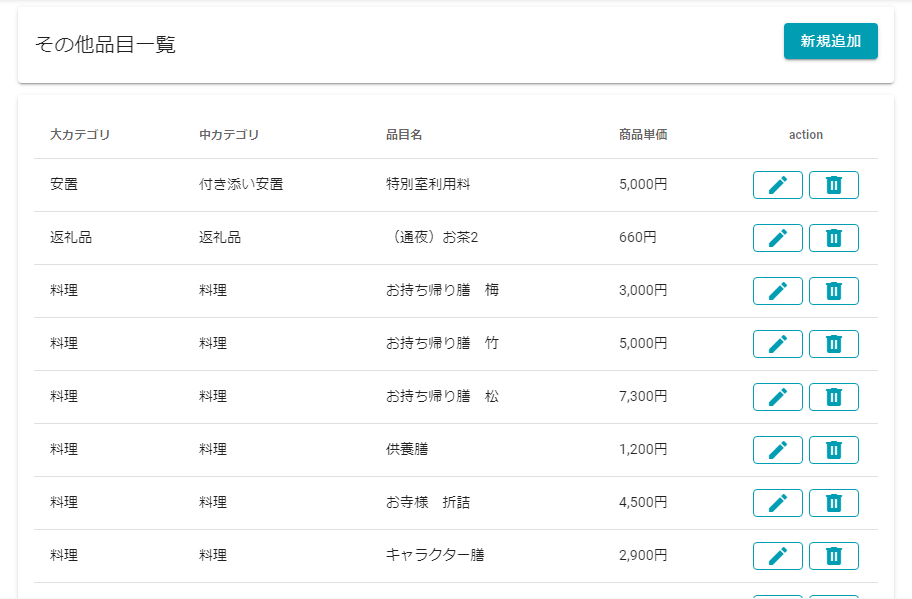
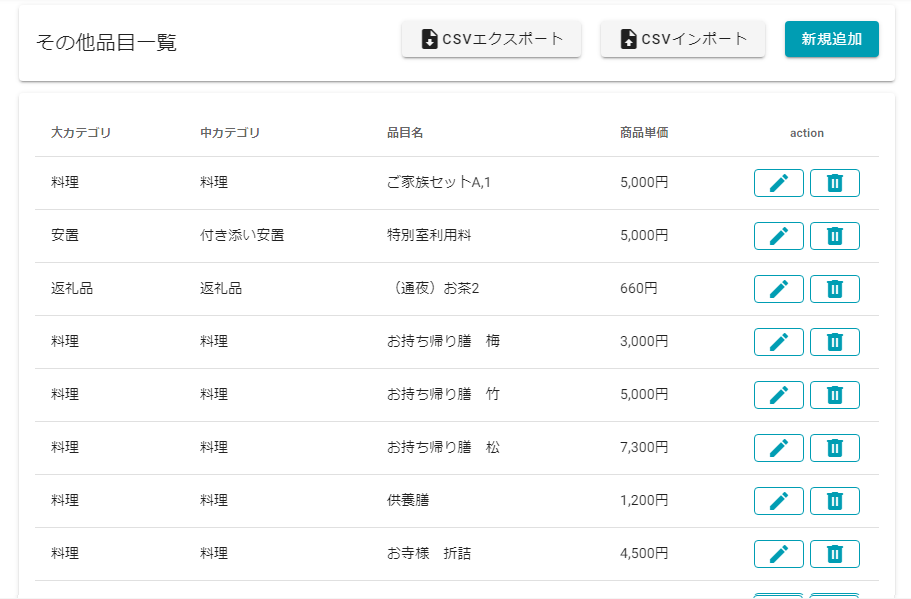
その他品目メンテナンス画面のCSVインポート・エクスポート機能についての記述を追加

Changed region(s): [[0.0615, 0.2104, 0.9528, 1.0], [0.0307, 0.0301, 0.9835, 0.1503], [0.0307, 0.0601, 0.2151, 0.0902]]

diff --git a/docs/maintenance/adding_item.md b/docs/maintenance/adding_item.md
@@ -48,11 +48,139 @@
 ## 削除  
 品目の削除は、**直近40日以内の案件で利用されていない**ものだけ削除できます.  
 1. **[削除]**を選択します.  
- ![削除ボタン](../asset/image/maintenance/adding_item/delete_button.png)
-<br>
-
+ ![削除ボタン](../asset/image/maintenance/adding_item/delete_button.png)  
+ <br>
 2. 確認のポップアップが表示されるので、**[OK]**を選択します.  
  ![削除警告](../asset/image/maintenance/adding_item/alert.png)
 <br>
 
-  
+## CSVエクスポート  
+登録されている全ての品目情報をCSVファイルで出力します.  
+1. **[CSVエクスポート]**を選択します.  
+ ![CSVエクスポートボタン](../asset/image/maintenance/adding_item/csv_export_button.png)
+<br>
+
+### フォーマット  
+CSVインポートに使用できるようにインポート用CSVファイルに合わせた書式になっています.  
+
+|項目|説明|
+|----|----|
+|品目ID|本システムで管理している管理IDです.|
+|大カテゴリ名|品目の大カテゴリの名称です.|
+|中カテゴリ名|品目の中カテゴリの名称です.|
+|品目名|品目の名称です.|
+|単価（税込）|品目データの単価です.<br/>数値で出力しており「￥」や「円」といった記号や単位は省略して表示します.|
+|単価フリー入力|単価がフリー入力の品目について「1」と表示します.|
+|削除|CSVインポートで利用する項目です.空欄で出力されます.|
+<br>
+
+
+## CSVインポート  
+CSVからその他品目情報を一括で登録、変更、削除します.  
+1. **[CSVインポート]**を選択します.  
+ ![CSVインポートボタン](../asset/image/maintenance/adding_item/csv_import_button.png)
+<br>
+2. 確認のポップアップが表示されるので、CSVファイルを設定します.  
+ ![CSVファイル選択](../asset/image/maintenance/adding_item/select_csv_file.png)
+<br>
+3. **[送信]**を選択しCSVインポートします.  
+ ![CSVインポート](../asset/image/maintenance/adding_item/import_csv_file.png)
+<br>
+
+### フォーマット
+
+|項目|書式|説明|例|
+|----|----|----|--|
+|品目ID|半角数字|本システムで管理している管理IDを設定します.<br/>**新規登録する場合は、空欄**に設定します.|ex. 123|
+|大カテゴリ名|文字列|品目の大カテゴリの名称を設定します.<br/>設定できる大カテゴリの名称は[大カテゴリと中カテゴリ](#_9)をご確認ください.|ex. 安置|
+|中カテゴリ名|文字列|品目の中カテゴリの名称を設定します.<br/>設定できる中カテゴリの名称は[大カテゴリと中カテゴリ](#_9)をご確認ください.|ex. 預かり安置|
+|品目名|文字列|品目の名称を設定します.|ex. 安置室使用料|
+|単価（税込）|半角数字|品目データの単価を設定します.**税込み**の金額を設定してください.|ex. 1100|
+|単価フリー入力|「1」または空欄|葬儀データに設定する時に金額部分を入力したい場合は「1」を設定し、それ以外は空欄にしてください.|ex. 1|
+|削除|「1」または空欄|登録されているその他品目データを削除したい場合に「1」を設定し、それ以外は空欄にしてください.|ex. 1|
+<br>
+
+#### 注意点  
+- ファイルの拡張子は「csv」になります.
+- CSVファイルの1行目はヘッダー行になりますので、インポートするデータは2行目から設定してください.
+- CSVファイルのデータは1列目から順に上記の項目としてインポートしますので項目の順番に気を付けてください.
+
+
+<br>
+
+### 大カテゴリと中カテゴリ  
+大カテゴリと中カテゴリの組み合わせ一覧です.
+
+|大カテゴリ|中カテゴリ|
+|---------|----------|
+|料理|料理|
+|返礼品|返礼品|
+|返礼品|会葬礼状追加|
+|安置|預かり安置|
+|安置|付き添い安置|
+|安置|自宅安置／ドライアイス|
+|処置|エンバーミング|
+|処置|古式湯灌|
+|処置|普通湯灌|
+|処置|ラストメイク|
+|処置|納棺の儀|
+|処置|納体袋|
+|処置|消臭剤|
+|処置|防水シーツ|
+|処置|検案・検死・介添料|
+|花・供物・祭壇|枕花|
+|花・供物・祭壇|祭壇花追加分|
+|花・供物・祭壇|棺内に入れる花|
+|花・供物・祭壇|供花|
+|花・供物・祭壇|花輪|
+|花・供物・祭壇|灯篭（回転灯篭・提灯含む）|
+|花・供物・祭壇|盛篭（お菓子・果物・酒）|
+|花・供物・祭壇|祭壇ランクアップ|
+|花・供物・祭壇|樒（しきみ）|
+|花・供物・祭壇|供養膳|
+|花・供物・祭壇|神式大ぬさ|
+|花・供物・祭壇|寺院用供物|
+|車|搬送距離追加|
+|車|寝台車|
+|車|霊柩車|
+|車|マイクロバス|
+|車|ハイヤー|
+|車|タクシー|
+|車|高速代|
+|車|搬送回数追加|
+|車|深夜料金追加|
+|火葬場・式場|火葬料金|
+|火葬場・式場|火葬場控え室|
+|火葬場・式場|式場控え室|
+|火葬場・式場|式場差額|
+|火葬場・式場|寝具一式|
+|スタッフ|式スタッフ増員|
+|スタッフ|警備員|
+|スタッフ|配膳係|
+|スタッフ|司会者 (プロ)|
+|写真|遺影写真|
+|写真|手札写真|
+|物品|骨壷骨箱ランクアップ・追加|
+|物品|棺ランクアップ|
+|物品|塔婆|
+|物品|野位牌|
+|物品|六文銭|
+|物品|副葬品|
+|物品|座布団・椅子|
+|物品|後飾りランクアップ|
+|物品|焼香セット|
+|物品|収骨セット|
+|物品|看板|
+|物品|白装束 (ランクアップ)|
+|宗教儀式|玉串追加|
+|宗教儀式|献花追加|
+|宗教儀式|神式後飾り|
+|サービス|配膳奉仕料|
+|サービス|貸衣装|
+|サービス|サービス料|
+|サービス|埋葬サービス|
+|サービス|訃報代|
+|その他|花 (無料オプション)|
+|その他|供物 (無料オプション)|
+|その他|仏衣 (無料オプション)|
+|その他|その他|

diff --git a/docs/revision_history.md b/docs/revision_history.md
@@ -2,7 +2,7 @@
 
 |日付|内容|
 |:---------|------------------:|
-|2020/10/29|担当者機能について、各ページに追記<br/>システム更新情報ページにv1.7.0の更新内容を追加<br/>|
+|2020/10/29|担当者機能について、各ページに追記<br/>その他品目メンテナンス画面にCSVインポート・エクスポート機能についての記述を追加<br/>システム更新情報ページにv1.7.0の更新内容を追加<br/>|
 |2020/10/22|システム更新情報ページにv1.6.1の更新内容を追加<br/>|
 |2020/10/15|システム更新情報ページにv1.6.0の更新内容を追加<br/>担当者の権限表にその他品目メンテナンス画面についてを追加<br/>|
 |2020/10/06|システム更新情報ページにv1.5.1の更新内容を追加|
